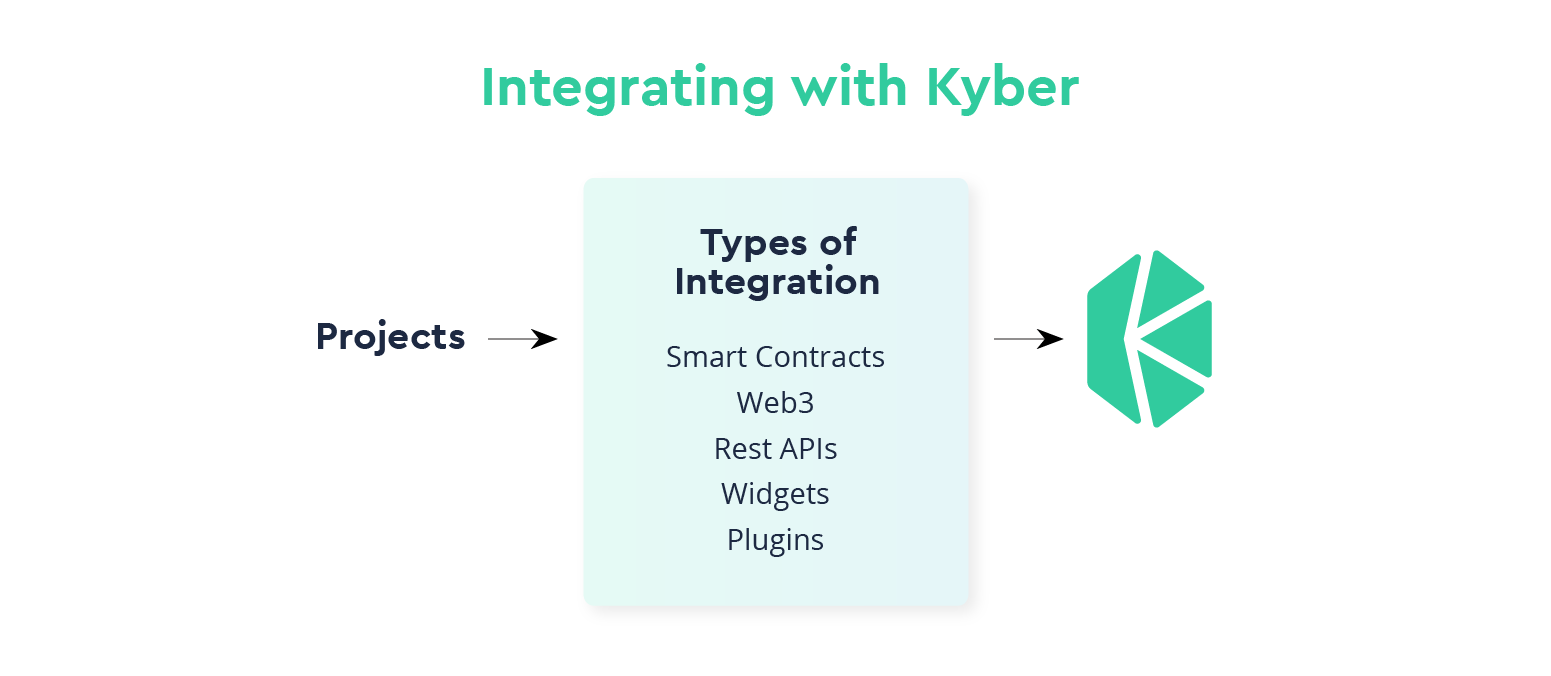
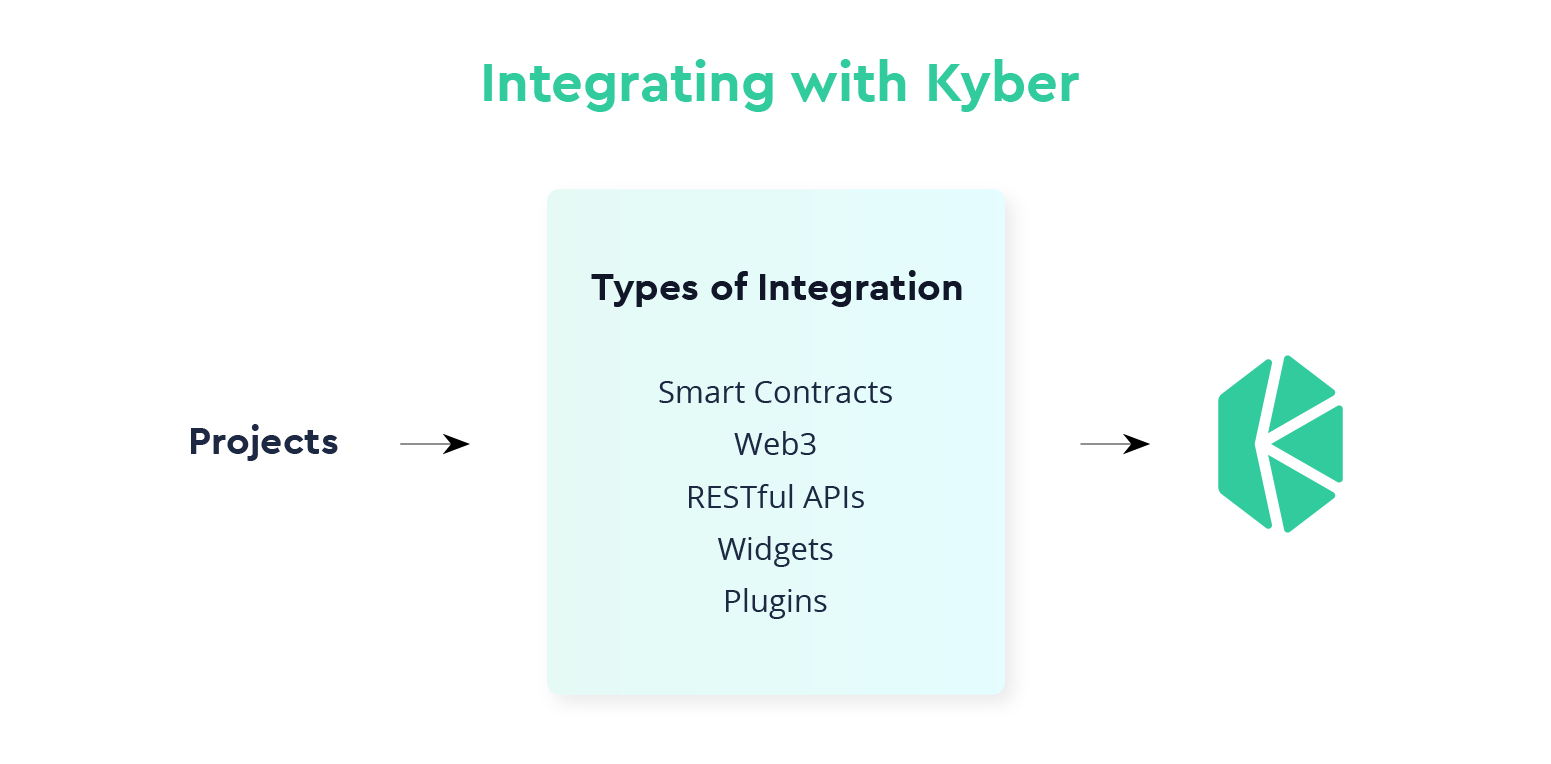
updated guides overview

diff --git a/docs/references-intro.md b/docs/references-intro.md
@@ -6,6 +6,4 @@ title: Introduction
 
 The Reference section provides in-depth information and documentation about Kyber Network's smart contracts and RESTful APIs. The smart contracts define the Kyber protocol and allow users to do decentralised token swaps while the RESTful APIs give users (without much smart contract knowledge) the ability to interact with our smart contracts.
 
-
-
 If you wish to learn more about the specifications of our smart contracts, please refer to this [section](references-smartcontractoverview.md). Additionally, more details about our RESTful API can be found [here](references-restfulapioverview.md).

diff --git a/docs/integrations-overview.md b/docs/integrations-overview.md
@@ -4,7 +4,10 @@ title: Overview
 ---
 ![Guides Overview](/uploads/guidesoverview.png "Guides Overview")
 
-A project that is looking to integrate with Kyber has 5 different avenues to interact with the protocol implementation. These approaches are as follows:
+A project that is looking to integrate with Kyber has 5 different avenues to interact with the protocol implementation. The integration types are as follows:
+
+![Integration Types](/uploads/integrationtypes.png "Integration Types")
+
 
 | Integration Type | Example |
 |:----------------:|:-------:|
